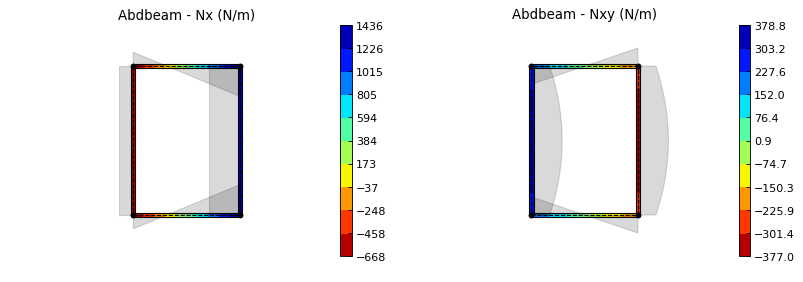
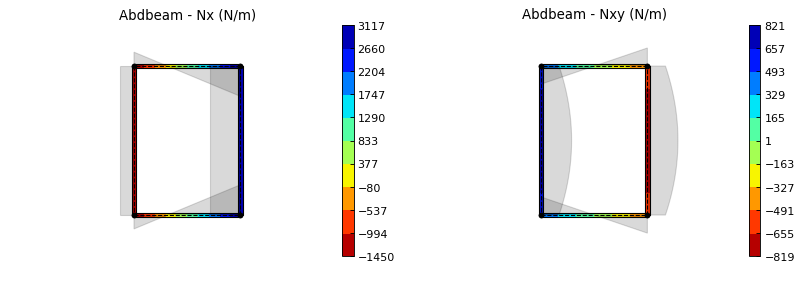
Update documentation due to segment uk matrix fix.

diff --git a/setup.py b/setup.py
@@ -6,7 +6,7 @@ with open("README.md", "r") as fh:
 
 setup(
     name='abdbeam',
-    version='0.2.0',
+    version='0.2.1',
     description='Cross section analysis of composite material beams of any shape.',
     long_description=readme,
     long_description_content_type='text/markdown',

diff --git a/abdbeam/examples/example_torque_box.py b/abdbeam/examples/example_torque_box.py
@@ -75,7 +75,6 @@ sc.points = pts
 sc.segments = sgs
 # Calculate section properties
 sc.calculate_properties()
-sc.summary()
 # Plot the section
 ab.plot_section(sc, pt_size=2, title='Abdbeam - Torque-box Example',
                 figsize=(6.4*1.5, 4.8*1.5))

diff --git a/docs/source/index.rst b/docs/source/index.rst
@@ -99,8 +99,8 @@ Which prints:
 
     Shear Center
     ------------
-    ys     = -1.59091432e-01
-    zs     = -5.86419365e-04
+    ys     = 2.35301214e-03
+    zs     = -1.45758049e-03
 
     Replacement Stiffnesses
     -----------------------
@@ -156,7 +156,7 @@ Or access the Pandas dataframe containing these internal loads directly::
 
     df = sc.sgs_int_lds_df
 
-Next plot the cross section and its properties (we'll show the segment orientations, hide legends, change the centroid , shear center and principal axis colors and use a custom figure size)::
+Next plot the cross section and its properties (we'll show the segment orientations, hide legends, change the centroid, shear center and principal axis colors and use a custom figure size)::
 
     ab.plot_section(sc, segment_coord=True, title='Abdbeam - Example', 
                     legend=False, prop_color='#471365', figsize=(5.12, 3.84))

diff --git a/README.md b/README.md
@@ -91,8 +91,8 @@ zc     = 0.00000000e+00
 
 Shear Center
 ------------
-ys     = -1.59091432e-01
-zs     = -5.86419365e-04
+ys     = 2.35301214e-03
+zs     = -1.45758049e-03
 
 Replacement Stiffnesses
 -----------------------
@@ -165,7 +165,7 @@ Finally, plot Nx and Nxy for load case 101 (we'll change the matplotlib contour 
 ab.plot_section_loads(sc, 101, contour_color='viridis', diagram_scale=0.7, 
                       int_load_list=['Nx', 'Nxy'], figsize=(5.12, 3.84))
 ```
-![Abdbeam Plot Loads Example](https://user-images.githubusercontent.com/24232637/51790027-feadf800-215d-11e9-8ba8-d7e444484eb8.png)
+![Abdbeam Plot Loads Example](https://user-images.githubusercontent.com/24232637/52542062-0a0e3f80-2d6a-11e9-8f17-323d5186180b.png)
 
 ## License
 

diff --git a/docs/source/rst/installation.rst b/docs/source/rst/installation.rst
@@ -4,14 +4,14 @@ Installation
 Windows and UNIX (MacOS/Linux)
 ------------------------------
 
-*Abdbeam* is installed with all its dependencies using PyPI (`Python package index <https://pypi.org/project/abdbeam>`_):::
+*Abdbeam* is installed using PyPI (`Python package index <https://pypi.org/project/abdbeam>`_):::
     
     pip install abdbeam
 
 Dependencies
 ------------
 
-Dependecies are taken care by the PyPI intallation and are listed here for reference purposes only:
+The following external packages are required to run *Abdbeam*:
 
 - `Numpy <https://www.numpy.org>`_
 - `Pandas <https://pandas.pydata.org>`_

diff --git a/docs/source/rst/examples.rst b/docs/source/rst/examples.rst
@@ -257,8 +257,8 @@ Which prints:
 
     Shear Center
     ------------
-    ys     = -8.67361738e-19
-    zs     = -3.46944695e-19
+    ys     = 0.00000000e+00
+    zs     = -6.93889390e-19
 
     Replacement Stiffnesses
     -----------------------
@@ -493,7 +493,6 @@ First we create the cross section, calculate is properties and plot it::
     sc.segments = sgs
     # Calculate section properties
     sc.calculate_properties()
-    sc.summary()
     # Plot the section
     ab.plot_section(sc, pt_size=2, title='Abdbeam - Torque-box Example',
                     figsize=(6.4*1.5, 4.8*1.5))
